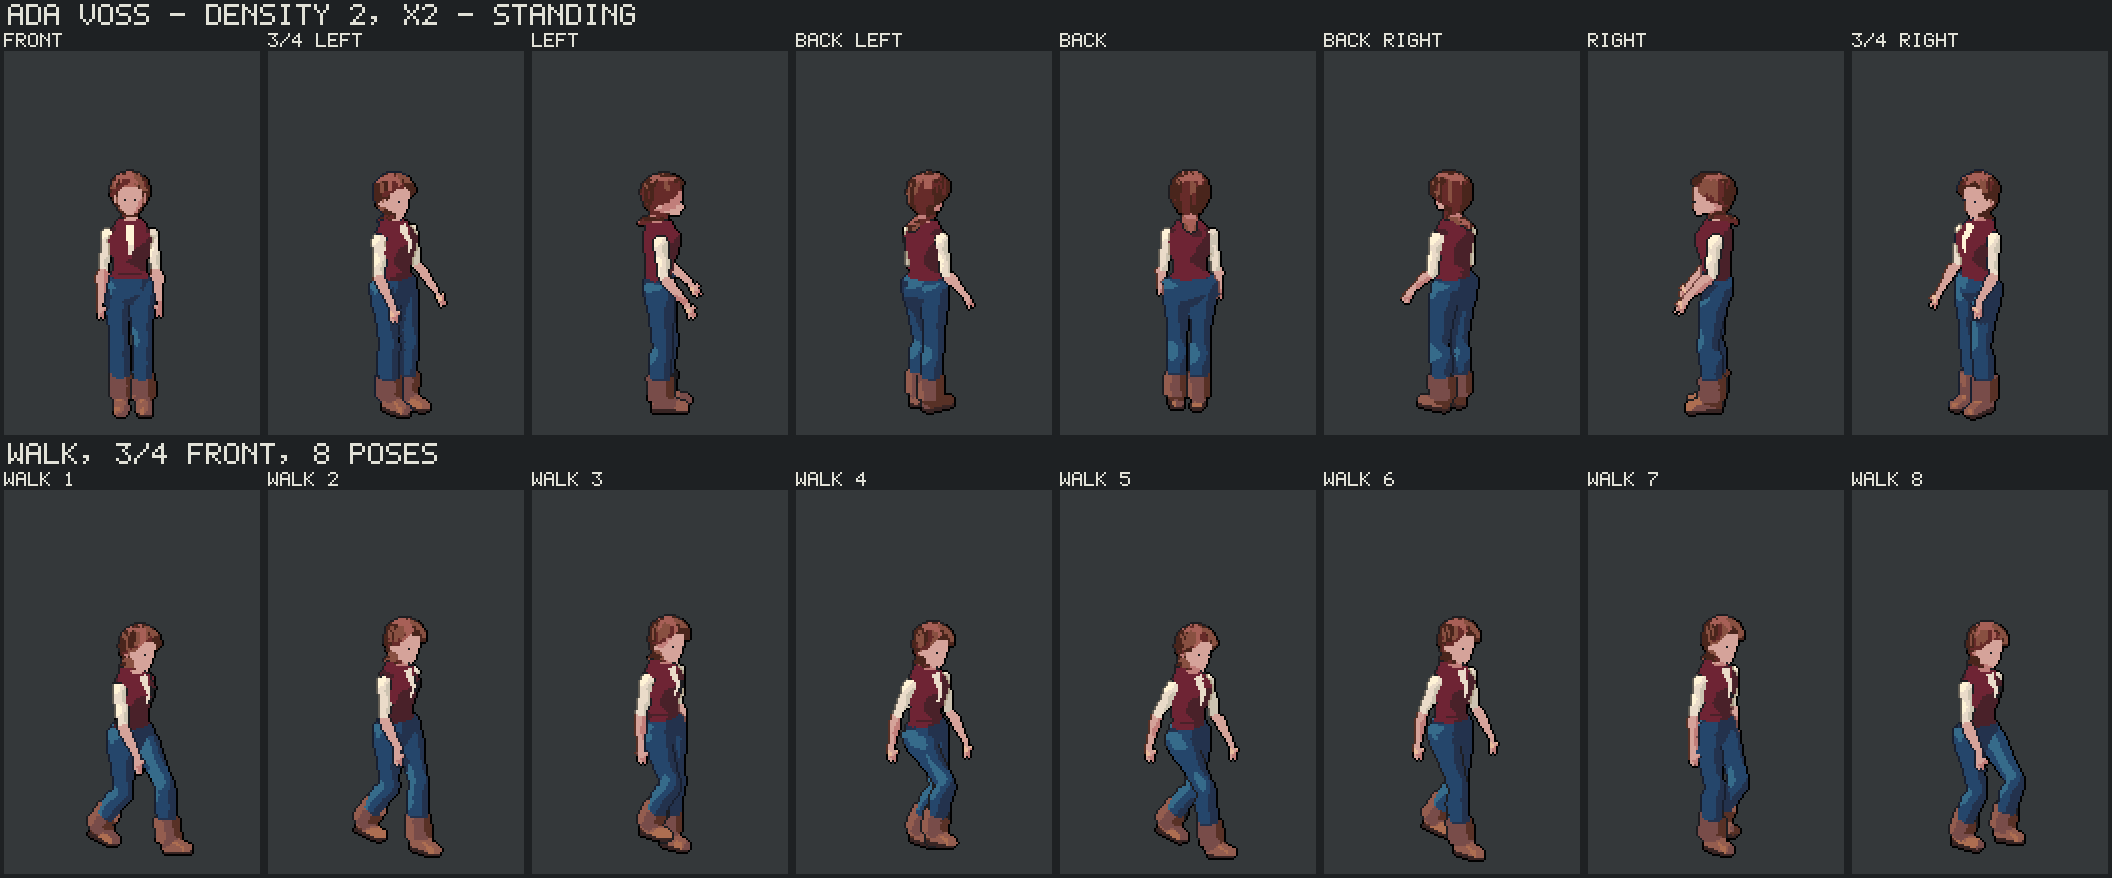
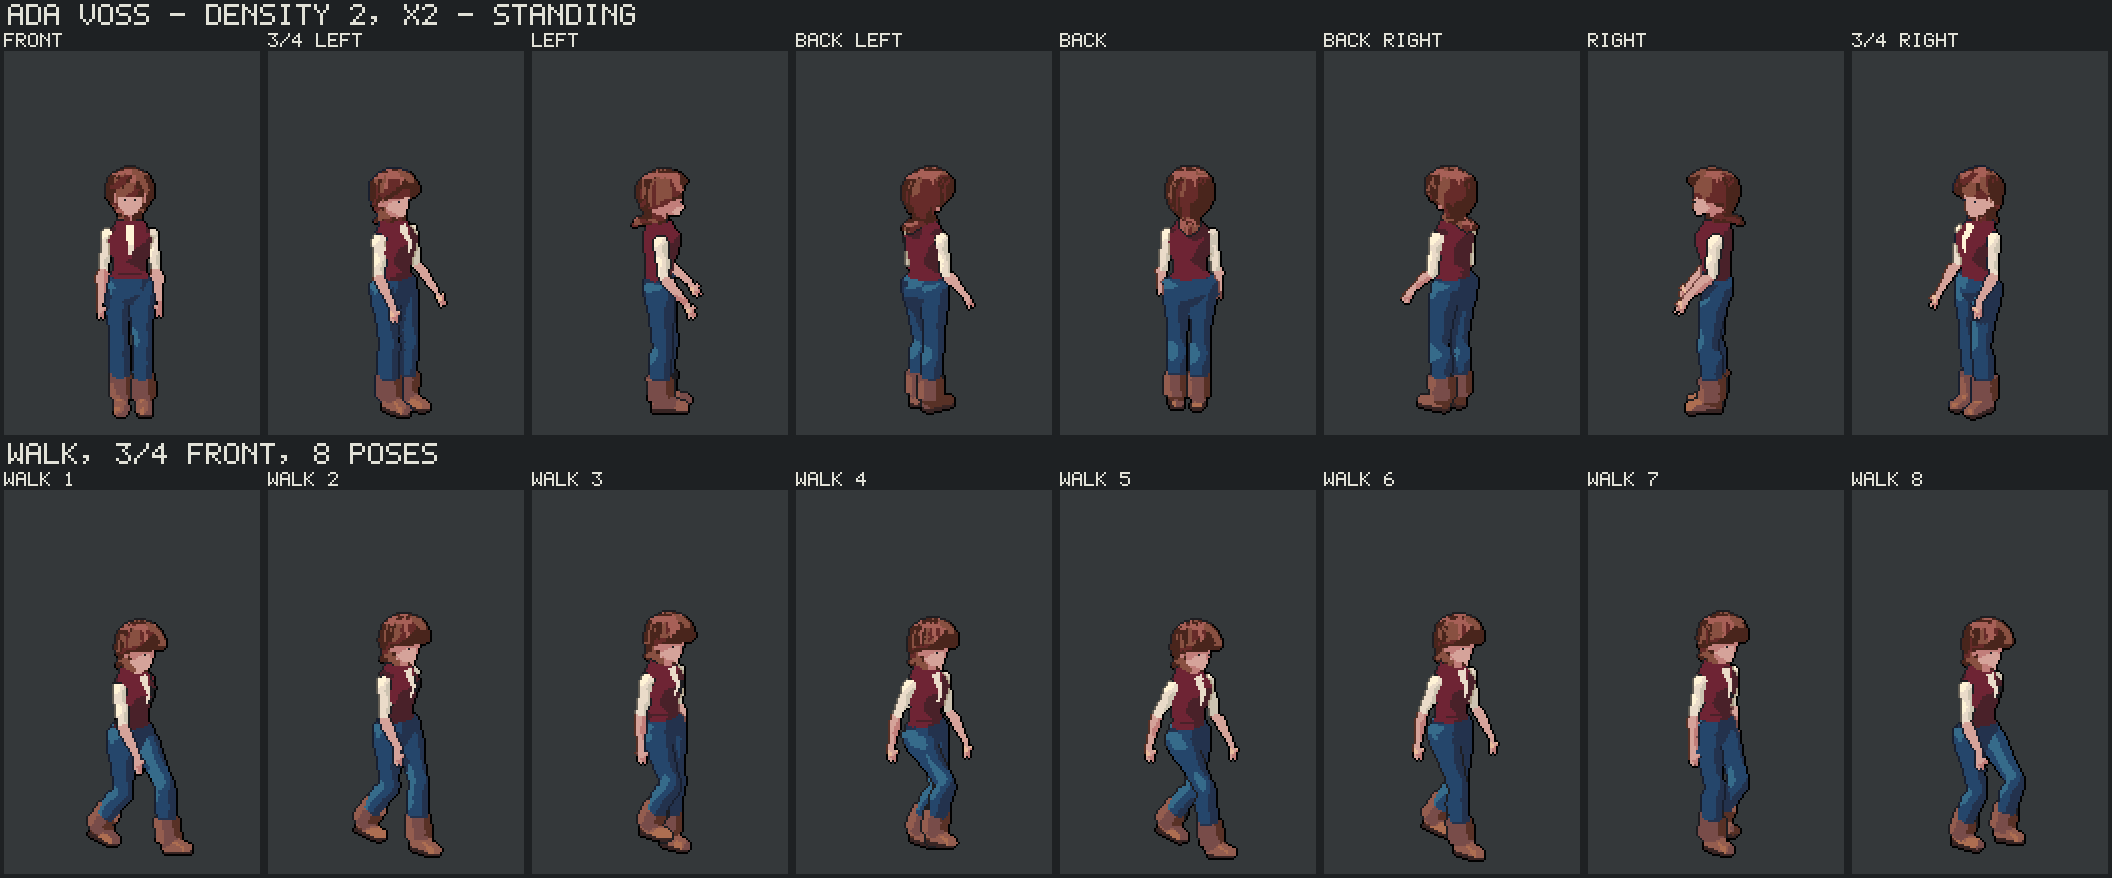
feat(character-kit): a bob with a fringe and volume at the ear, and Ada wears it
bobFringe, bobFringeFull and bobFringeShort are kit hair styles built from the builder's own scalp
and fall pieces: a hairline at the brow, the shell lifted off the skull, more clumps and more volume.
The test measures from the picture and was watched failing first. At the play size Ada's hair goes
from 45 texels to 82 (the old bob had 88).

Claude-Session: https://claude.ai/code/session_01HNdX7LJpNZpnKNxdN6a3oK

diff --git a/extensions/character-kit/tests/unit/fashion/hair-bob.test.ts b/extensions/character-kit/tests/unit/fashion/hair-bob.test.ts
@@ -1,0 +1,119 @@
+// A bob with a fringe and volume at the ear, built from the builder's own pieces (a scalp shell, a fall), against the helmet bob it
+// replaces on a character whose bob has body: the same head in the same cloth, the hair counted from the picture at the size a game
+// plays a figure (density 1, 4 views) and measured at density 2 from the front (its widest row, how low the fringe comes).
+import { describe, expect, it, vi } from 'vitest'
+import { registerFashion } from '#src/features/fashion/register-fashion.ts'
+import {
+  BASE,
+  type CharacterDef,
+  HAIR_STYLES,
+  type Material,
+  SWATCHES,
+} from '#src/shared/figure-builder/door.ts'
+import { type PaintedCell, paintedCell, rowWidths, texelsOfSwatch } from '#src/testing/painted-cell.ts'
+
+registerFashion()
+vi.setConfig({ testTimeout: 60_000 })
+
+/** A hair swatch of four colours the painter's DUEL palette holds (the old Ada's auburn), so its texels are its own. */
+const auburn: Material = {
+  ramp: 2,
+  base: 2,
+  gloss: 0.94,
+  strands: true,
+  paint: ['#885041', '#662b29', '#49251c', '#372423'],
+}
+
+/** A fair skin (the old Ada's), four DUEL colours that the auburn hair does not share, so the face's rows read apart from the hair's. */
+const fair: Material = {
+  ramp: 27,
+  base: 5,
+  lift: 0,
+  paint: ['#ebbd9d', '#d5a39a', '#c17e7a', '#945d4f'],
+  tones: [0.05, -0.55, -0.9],
+}
+
+/** The base woman, fair, in a tee and jeans with `style` in auburn. */
+function bob(style: string): CharacterDef {
+  const base = (BASE[1] as { def: CharacterDef }).def
+  return {
+    ...base,
+    skin: 'fair',
+    swatches: { ...base.swatches, auburn, fair },
+    default: 'test',
+    outfits: {
+      test: [
+        { tee: 'ribCream', sleeves: 'short' },
+        { jeans: 'denim' },
+        { eyes: 'eyeBrown' },
+        { hair: 'auburn', style },
+      ],
+    },
+  }
+}
+
+/** A cell with only the head's rows: a fifth of the cell's height from the figure's first opaque row (the DUEL palette shares its colours across
+ *  cloths, so a hair colour is also found on a shoe or a hand; the head's rows are hair and skin). */
+function headOf(def: CharacterDef, view: number, density: 1 | 2): PaintedCell {
+  const cell = paintedCell(def, view, density)
+  const [w, h] = cell.size
+  const first = rowWidths(cell).findIndex((width) => width > 0)
+  // The head and the fall of a chin-length bob: a fifth of the cell's height from the first opaque row.
+  const keep = Math.round(h * 0.2)
+  const painted = new Uint8ClampedArray(cell.painted)
+  for (let y = first + keep; y < h; y++) painted.fill(0, y * w * 4, (y + 1) * w * 4)
+  return { painted, size: cell.size }
+}
+
+/** The hair's texels in the head's rows over the front, a quarter turn, the back and the other quarter turn, at the play size. */
+const playTexels = (def: CharacterDef): number =>
+  [0, 2, 4, 6].reduce((sum, view) => sum + texelsOfSwatch(def, headOf(def, view, 1), 'auburn'), 0)
+
+/** The hair at density 2 from the front: its widest row, and the first row of the face's skin over its middle (a fringe pushes it down). */
+function front(def: CharacterDef) {
+  const cell = headOf(def, 0, 2)
+  const widest = Math.max(...rowWidths(cell, { def, swatch: 'auburn' }))
+  const [w] = cell.size
+  const skin = (def.swatches?.[def.skin]?.paint ?? SWATCHES[def.skin]?.paint ?? []).map((hex) =>
+    [1, 3, 5].map((i) => Number.parseInt(hex.slice(i, i + 2), 16)),
+  )
+  let forehead = -1
+  for (let y = 0; y < cell.size[1] && forehead < 0; y++)
+    for (let x = w / 2 - 3; x <= w / 2 + 3; x++) {
+      const i = y * w + x
+      if (
+        skin.some(
+          ([r, g, b]) =>
+            r === cell.painted[i * 4] && g === cell.painted[i * 4 + 1] && b === cell.painted[i * 4 + 2],
+        )
+      )
+        forehead = y
+    }
+  return { widest, forehead }
+}
+
+describe('a bob with a fringe', () => {
+  const helmet = bob('smoothBob')
+
+  for (const style of ['bobFringe', 'bobFringeFull', 'bobFringeShort']) {
+    it(`${style} is a style of the painted wardrobe`, () => {
+      expect(HAIR_STYLES[style]).toBeDefined()
+    })
+  }
+
+  it('has more hair at the play size than the helmet bob (the old bob had twice the helmet’s texels)', () => {
+    expect(playTexels(bob('bobFringe'))).toBeGreaterThan(playTexels(helmet) * 1.25)
+  })
+
+  it('has volume at the ear: its widest row is wider than the helmet’s', () => {
+    expect(front(bob('bobFringe')).widest).toBeGreaterThanOrEqual(front(helmet).widest + 2)
+  })
+
+  it('has a fringe: the face’s skin starts lower, under the hair over the brow', () => {
+    expect(front(bob('bobFringe')).forehead).toBeGreaterThanOrEqual(front(helmet).forehead + 2)
+  })
+
+  it('has a fuller version, with more hair than the plain one', () => {
+    expect(playTexels(bob('bobFringeFull'))).toBeGreaterThan(playTexels(bob('bobFringe')))
+  })
+})

diff --git a/extensions/character-kit/scripts/figure-looks.ts b/extensions/character-kit/scripts/figure-looks.ts
@@ -195,6 +195,17 @@ const round3 = (() => {
   return { nurse }
 })()
 
+/** `def` with its hair in `style` (the helmet `smoothBob` is what Ada wore before round 3's bob). */
+const withHair = (def: CharacterDef, style: string): CharacterDef => ({
+  ...def,
+  outfits: Object.fromEntries(
+    Object.entries(def.outfits).map(([name, items]) => [
+      name,
+      items.map((item) => ('hair' in item ? { ...item, style } : item)),
+    ]),
+  ) as never,
+})
+
 /**
  * Round 3's stand and face for Ada, one change at a time over round 2's: what the old file's own numbers do (it zeroed the weight on a
  * leg, `stance` and `stanceLead` and `shift`, which the brisk gait itself has as 0.04, 0.08 and 0.012; and it bent the idle arm by
@@ -210,34 +221,71 @@ const round3ada = (() => {
     {
       label: 'BEFORE',
       note: 'round 2: weight on neither leg, the arm near straight, the drawn face',
-      def: { ...ADA, face: { ...ADA.face, drawn: true }, gaitOverrides: round2 },
+      def: withHair({ ...ADA, face: { ...ADA.face, drawn: true }, gaitOverrides: round2 }, 'smoothBob'),
     },
     {
       label: 'A',
       note: 'the decal face (face.drawn false): two eye dots at play size',
-      def: { ...ADA, face: decal, gaitOverrides: round2 },
+      def: withHair({ ...ADA, face: decal, gaitOverrides: round2 }, 'smoothBob'),
     },
     {
       label: 'B',
       note: 'A and her weight on one leg: stance .04, stanceLead .08, shift .012',
-      def: { ...ADA, face: decal, gaitOverrides: { ...round2, ...stance } },
+      def: withHair({ ...ADA, face: decal, gaitOverrides: { ...round2, ...stance } }, 'smoothBob'),
     },
     {
       label: 'C (ADOPTED)',
       note: "B and a bent, hung arm: idleElbow .45, hang .12, the old brisk gait's own",
-      def: ADA,
+      def: withHair(ADA, 'smoothBob'),
     },
     {
       label: 'D',
       note: 'C with her arms nearer her body (standOut .05) and her head turned more (face.turn .5)',
-      def: {
-        ...ADA,
-        face: { ...decal, turn: 0.5 },
-        gaitOverrides: { ...ADA.gaitOverrides, ...stance, ...arm, standOut: 0.05 },
-      },
+      def: withHair(
+        {
+          ...ADA,
+          face: { ...decal, turn: 0.5 },
+          gaitOverrides: { ...ADA.gaitOverrides, ...stance, ...arm, standOut: 0.05 },
+        },
+        'smoothBob',
+      ),
     },
   ]
   return { ada }
+})()
+
+/** Round 3's bob: the kit's hair styles with a fringe and volume at the ear, against the helmet `smoothBob`, on Ada and on the builder's base woman. */
+const round3hair = (() => {
+  const base = (BASE[1] as { def: CharacterDef }).def
+  const auburn = ADA.swatches?.auburn
+  const woman: CharacterDef = {
+    ...base,
+    swatches: { ...base.swatches, ...(auburn === undefined ? {} : { auburn }) },
+    default: 'test',
+    outfits: {
+      test: [
+        { tee: 'ribCream', sleeves: 'short' },
+        { jeans: 'denim' },
+        { eyes: 'eyeBrown' },
+        { hair: 'auburn', style: 'smoothBob' },
+      ],
+    },
+  }
+  const list = (def: CharacterDef, who: string): Variant[] => [
+    { label: 'BEFORE', note: `${who}: the helmet bob (smoothBob)`, def: withHair(def, 'smoothBob') },
+    {
+      label: 'A',
+      note: 'bobFringe: a fringe over the brow, volume at the ear',
+      def: withHair(def, 'bobFringe'),
+    },
+    {
+      label: 'B',
+      note: 'bobFringeFull: more mass at the ear, a longer line',
+      def: withHair(def, 'bobFringeFull'),
+    },
+    { label: 'C', note: 'bobFringeShort: to the jaw', def: withHair(def, 'bobFringeShort') },
+  ]
+  return { ada: list(ADA, 'Ada'), woman: list(woman, 'the base woman') }
 })()
 
 export const LOOKS: Readonly<Record<string, readonly Variant[]>> = {
@@ -247,4 +295,6 @@ export const LOOKS: Readonly<Record<string, readonly Variant[]>> = {
   'round2-vest': round2vest.pair,
   'round3-nurse': round3.nurse,
   'round3-ada': round3ada.ada,
+  'round3-hair-ada': round3hair.ada,
+  'round3-hair-woman': round3hair.woman,
 }

diff --git a/extensions/character-kit/src/features/fashion/hair.ts b/extensions/character-kit/src/features/fashion/hair.ts
@@ -27,6 +27,18 @@ const hang = [
   [2.3, -0.35],
   [3.1416, -0.5],
 ]
+/** A hairline with a fringe: the brow's height (0.62) brought down to the brow across the front (0.12: lower covers the eyes), the sides and the back as the natural line has them. */
+const fringeLine = [
+  [0, 0.12],
+  [0.5, 0.12],
+  [0.85, 0.12],
+  [1.15, 0.0],
+  [1.3, -0.12],
+  [1.5, 0.1],
+  [1.9, 0.0],
+  [2.5, -0.45],
+  [3.1416, -0.6],
+]
 const crown = {
   scalp: {
     from: line,
@@ -227,6 +239,34 @@ export const FASHION_HAIR: Readonly<Record<string, HairStyle>> = {
     pieces: [
       crown,
       { fall: { from: hang, part: 0.3, count: 22, length: 0.35, curl: 0, volume: 0.2, rope: { r: 0.15 } } },
+    ],
+  },
+  // A bob with a fringe: the shell lifted off the skull and brought down over the brow, the hair falling to the chin with its mass standing
+  // out at the ear (the old game's bob; the helmet `smoothBob` has neither).
+  bobFringe: {
+    about: 'A chin-length bob with a fringe over the brow and volume at the ear.',
+    finish: 'smooth',
+    pieces: [
+      { scalp: { ...crown.scalp, from: fringeLine, lift: 0.1 } },
+      { fall: { from: hang, part: 0.3, count: 28, length: 0.35, curl: 0, volume: 0.38, rope: { r: 0.17 } } },
+    ],
+  },
+  bobFringeFull: {
+    about: 'A fuller bob with a fringe: more mass at the ear and a longer line.',
+    finish: 'smooth',
+    pieces: [
+      { scalp: { ...crown.scalp, from: fringeLine, lift: 0.12 } },
+      {
+        fall: { from: hang, part: 0.3, count: 34, length: 0.42, curl: 0.1, volume: 0.55, rope: { r: 0.19 } },
+      },
+    ],
+  },
+  bobFringeShort: {
+    about: 'A short bob with a fringe, to the jaw.',
+    finish: 'smooth',
+    pieces: [
+      { scalp: { ...crown.scalp, from: fringeLine, lift: 0.1 } },
+      { fall: { from: hang, part: 0.3, count: 28, length: 0.2, curl: 0, volume: 0.38, rope: { r: 0.17 } } },
     ],
   },
 }

diff --git a/games/the-last-light/src/features/figures/cast.ts b/games/the-last-light/src/features/figures/cast.ts
@@ -16,7 +16,8 @@ export const PLAY_FIGURE = { density: 1, crisp: false } as const
 /**
  * Ada Voss, the staff nurse on her first night. The prologue puts her in her street clothes (the old character file's `story`:
  * `scenes.prologue = street`): a cream top with short sleeves under a maroon waistcoat, denim trousers tucked into brown boots, her
- * auburn bob, dark eyes. The bob is the kit's `smoothBob`: the builder has no `bob` style of the old kind.
+ * auburn bob, dark eyes. The bob is the kit's `bobFringeFull`: the builder has no `bob` style of the old kind, and the kit's plain `smoothBob` is
+ * a helmet with a tail (46 hair texels at the play size to the old bob's 88); the fringe and the fuller mass at the ear make 82.
  */
 export const ADA: CharacterDef = {
   id: 'ada',
@@ -61,7 +62,7 @@ export const ADA: CharacterDef = {
       // The kit's closer cut, tapered to the ankle: its `trousers` is a cloth shell over the whole leg, where the old trousers were paint on it.
       { jeans: 'denim', taper: 0.7 },
       { shoes: 'bootBrown', sole: 'bootSole', boots: true },
-      { hair: 'auburn', style: 'smoothBob' },
+      { hair: 'auburn', style: 'bobFringeFull' },
       { eyes: 'eyeDark' },
     ],
   },
@@ -145,7 +146,7 @@ export const HELD: readonly Held[] = [
   },
   {
     old: 'Ada’s own bob (the old `bob` style)',
-    why: 'the builder’s hair library has no `bob`; the kit’s `smoothBob` is the same chin-length cut in a smooth finish',
-    instead: 'the kit’s `smoothBob`',
+    why: 'the builder’s hair library has no `bob`; the kit’s `bobFringeFull` is a chin-length bob with a fringe and mass at the ear, built from the builder’s scalp and fall pieces, but a piece of its own could turn its ends under and part it',
+    instead: 'the kit’s `bobFringeFull`',
   },
 ]

diff --git a/games/the-last-light/tests/unit/features/figures/cast.test.ts b/games/the-last-light/tests/unit/features/figures/cast.test.ts
@@ -132,7 +132,7 @@ const OLD_UNCANNY = {
 /** What `HELD` replaces in an old outfit, by item, so the comparison names each difference. */
 const asDrawn = (old: readonly Record<string, unknown>[]) =>
   old.map((item) => {
-    if (item.style === 'bob') return { ...item, style: 'smoothBob' }
+    if (item.style === 'bob') return { ...item, style: 'bobFringeFull' }
     if (item.style === 'curtain') return { ...item, style: 'fallLong' }
     // The kit's `trousers` is a cloth shell grown over the whole leg; the old trousers were paint on the body's own leg. `jeans` is the kit's
     // closer cut (one clearance, a straighter knee), tapered to the ankle, as a slim leg is.

diff --git a/docs/superpowers/audits/2026-11-12-last-light-figures-look/README.md b/docs/superpowers/audits/2026-11-12-last-light-figures-look/README.md
@@ -9,7 +9,8 @@ up by `pnpm --filter @automata/character-kit sheet <out-dir> <round> --old <old-
 old painter, which our painter descends from; Ada row 7, nurse row 3) and the **approved hand-painted atlas** (Ada row 1, nurse row
 1), which is what the old game actually shipped and what "looking good" meant there.
 
-Progress: **round 3 in progress** (about 85 %: Ada's face and stand adopted, the nurse's cut open, the hair style next). Round 0 look before touching, round 1 data, round 2 painted garments as generators,
+Progress: **round 3 done** (about 90 %): Ada's face, stand and hair adopted, the nurse's cut open. Left: the Owner's picks, the nurse's
+hair, the in-game frame. Round 0 look before touching, round 1 data, round 2 painted garments as generators,
 round 3 the nurse's cut (choices open), and the list for the painter, kept as it goes. Left: the Owner's picks, hair as data if the
 Owner allows it, the in-game frame.
 
@@ -208,9 +209,31 @@ The old file zeroed her weight on a leg and cut her arm; the old brisk gait's ow
 | **C (adopted)** | B and `idleElbow` .45, `hang` .12: a bent, hung arm, the brisk gait's own | **17, 17, 19** |
 | D | C with `standOut` .05 (arms near the body) and `face.turn` .5 | 17, 17, 19 |
 
-The atlas is 17, 19, 20 at 61 texels; the old procedural 14, 16, 18 at 59; adopted Ada is 17, 17, 19 at 64 (hip/height .297).
+The atlas is 17, 19, 20 at 61 texels; the old procedural 14, 16, 18 at 59; adopted Ada is 17, 17, 19 at 64 (hip/height .297); with the bob below, 15, 17, 19 at 65 (the fringe and mass add a row on top and the stand's shoulder moves a texel: `round3-ada-numbers.txt` is measured with it).
 `cast.test.ts` was changed first and watched failing: her gait overrides are the old brisk whole and her `armOut` (the old file's
 zeroed stance and cut elbow are gone), her face is the old one but `drawn`.
+
+### A bob with a fringe and volume at the ear (kit hair style, built from the builder's own pieces)
+
+Three generic styles in the kit's table (`extensions/character-kit/src/features/fashion/hair.ts`, data only: a scalp shell with a
+hairline brought down to the brow and lifted off the skull, and a fall with more clumps and more volume), against the helmet `smoothBob`.
+The test `hair-bob.test.ts` was written first and watched failing (no such styles); it measures from the picture on a fair head: the
+hair's texels at the play size, its widest row at density 2, and the first row of the face's skin over its middle (a fringe pushes
+it down). Sheets: [`round3-hair-ada-play.png`](round3-hair-ada-play.png), [`-detail`](round3-hair-ada-detail.png), and on the builder's base
+woman [`round3-hair-woman-detail.png`](round3-hair-woman-detail.png), [`-play`](round3-hair-woman-play.png); numbers in
+[`round3-hair-numbers.txt`](round3-hair-numbers.txt).
+
+| | what it is | Ada's hair texels, front at play size | widest row at density 2 |
+| --- | --- | --- | --- |
+| BEFORE `smoothBob` | the helmet with a tail | 45 | 20 |
+| A `bobFringe` | a fringe, volume at the ear | 70 | 22 |
+| **B `bobFringeFull` (adopted for Ada)** | more mass at the ear, a longer line (curl .1) | **82** | **24** |
+| C `bobFringeShort` | A to the jaw | 70 | 22 |
+
+The old Ada's hair is 88 texels (the old atlas 89). Ada wears B, the nearest to the old; A and C are the Owner's to pick (the style is
+one word in her outfit). The fringe is at the brow (hairline height 0.12 on the skull; a fringe lowered to 0 touches the eyes and
+below that covers them, as the sweep of fringe heights on Ada at density 2 showed). A fold of the ends under (a bob's turned hem) and a
+side part need a hair piece of the painter's, so they stay on the painter's list.
 
 ### What `knip` and `check:changesets` say here (so it is clear whether they are real)
 
@@ -251,7 +274,7 @@ Kept here as it grows. Each needs a hair piece, a gait entry or a pose in the pa
 
 | Needs the painter | Why | What it would improve |
 | --- | --- | --- |
-| The old `bob` hair piece | `smoothBob` is a crown cap and ropes hung from the nape: a helmet with a tail | Ada's head: a fringe, volume at the ears, a turned-under hem (half the old hair's texels) |
+| The old `bob`'s turned-under hem and parting | `bobFringeFull` (a kit style of the builder's pieces) has the fringe and the mass at the ear, not the hem tucked under or a side part | the last of Ada's hair: the old bob's shape |
 | The nurse's `curtain` | no piece hangs a panel across the face | the uncanny: her face hidden, not a blank mask under the cap |
 | A stooping stand | the stand holds a figure upright whatever the sliders (round 1, variant B) | her old shape: 71 rows for 210 cm, leaning down |
 | Skirt pleats (`folds`) | the painted skirt is a smooth profile of rings | the torn, hanging hem |
@@ -261,7 +284,7 @@ Kept here as it grows. Each needs a hair piece, a gait entry or a pose in the pa
 
 ## Log
 
-- Round 3: Ada's `face.drawn: false` (eyes at play size), her stance and arm from the old brisk gait, the eyes test, the nurse's cut sheeted.
+- Round 3: the kit's `bobFringe`, `bobFringeFull` and `bobFringeShort` hair styles (`hair-bob.test.ts` first), Ada wears `bobFringeFull`; Ada's `face.drawn: false` (eyes at play size), her stance and arm from the old brisk gait, the eyes test, the nurse's cut sheeted.
 - Round 2: waistcoat `fit`, `length` and `armhole` and legs' `taper` in the kit's garments (`accessories.ts`, `shells.ts`, `garments.ts`),
   `cut.test.ts` written first, `waistcoat-default.test.ts` pinning the legacy default; Ada's waistcoat and jeans set the options; `figure-variants.ts` can count the texels two variants differ by.
 - Round 1: the old `brisk` and `uncanny` gaits whole as overrides (`old-gaits.ts`), Ada's six retuned sliders and `jeans`, the cast test
